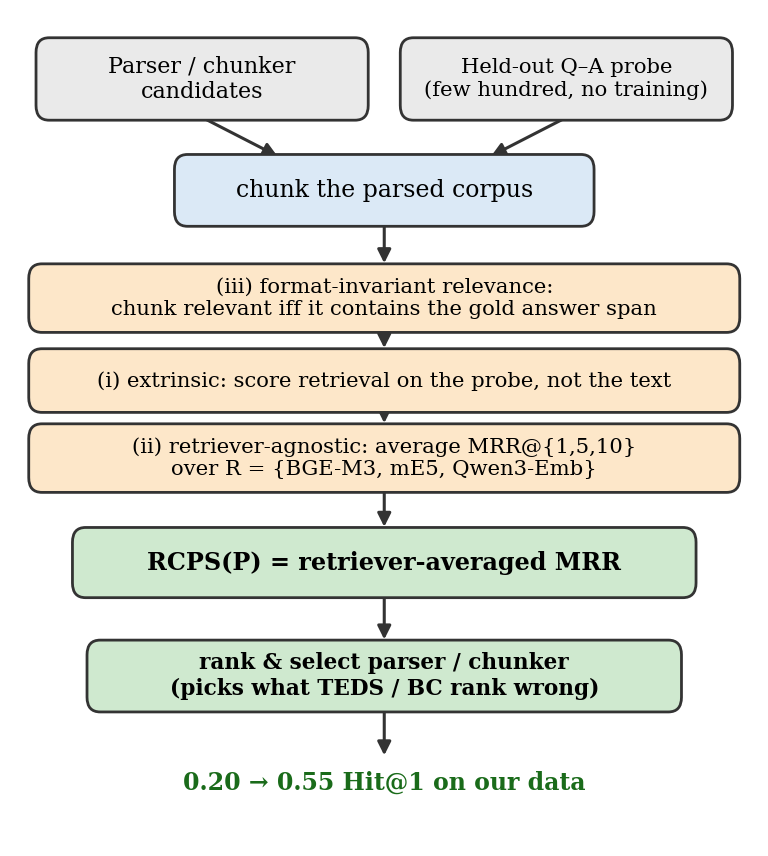
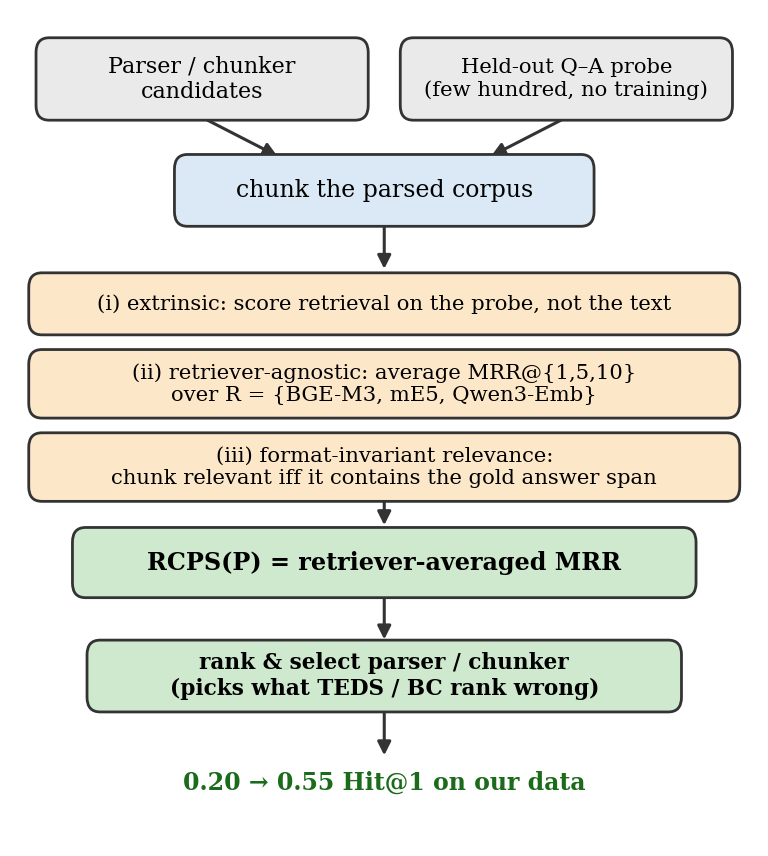
fig: reorder RCPS choices (i)(ii)(iii) + drop inter-box arrows (a set, not a sequence)

Changed region(s): [[0.0312, 0.3037, 0.9688, 0.6075]]

diff --git a/scripts/figures/make_fig_rcps_protocol.py b/scripts/figures/make_fig_rcps_protocol.py
@@ -50,24 +50,23 @@ def main() -> None:
     arrow(ax, 0.24, 0.885, 0.36, 0.83)
     arrow(ax, 0.76, 0.885, 0.64, 0.83)
 
-    # The three protocol choices (the contribution) — grouped by shared colour + (i)(ii)(iii)
-    box(ax, 0.02, 0.625, 0.96, 0.068,
-        "(iii) format-invariant relevance:\nchunk relevant iff it contains the gold answer span",
-        "#fde7c9", 7.6)
-    box(ax, 0.02, 0.527, 0.96, 0.062,
+    # Three protocol choices (the contribution) — a *set*, not a sequence:
+    # ordered (i)(ii)(iii), grouped by shared colour; one arrow in, one out (no inter-box arrows).
+    box(ax, 0.02, 0.622, 0.96, 0.060,
         "(i) extrinsic: score retrieval on the probe, not the text",
         "#fde7c9", 7.6)
-    box(ax, 0.02, 0.429, 0.96, 0.068,
+    box(ax, 0.02, 0.520, 0.96, 0.068,
         "(ii) retriever-agnostic: average MRR@{1,5,10}\nover R = {BGE-M3, mE5, Qwen3-Emb}",
         "#fde7c9", 7.6)
-    arrow(ax, 0.5, 0.755, 0.5, 0.695)
-    arrow(ax, 0.5, 0.625, 0.5, 0.591)
-    arrow(ax, 0.5, 0.527, 0.5, 0.499)
+    box(ax, 0.02, 0.418, 0.96, 0.068,
+        "(iii) format-invariant relevance:\nchunk relevant iff it contains the gold answer span",
+        "#fde7c9", 7.6)
+    arrow(ax, 0.5, 0.755, 0.5, 0.688)   # chunk -> protocol choices (single arrow in)
 
     # RCPS score
     box(ax, 0.08, 0.300, 0.84, 0.070, "RCPS(P) = retriever-averaged MRR",
         "#cfe9cf", 8.6, bold=True)
-    arrow(ax, 0.5, 0.429, 0.5, 0.372)
+    arrow(ax, 0.5, 0.418, 0.5, 0.374)   # protocol choices -> RCPS (single arrow out)
 
     # Output: ranking / selection
     box(ax, 0.10, 0.160, 0.80, 0.072,
